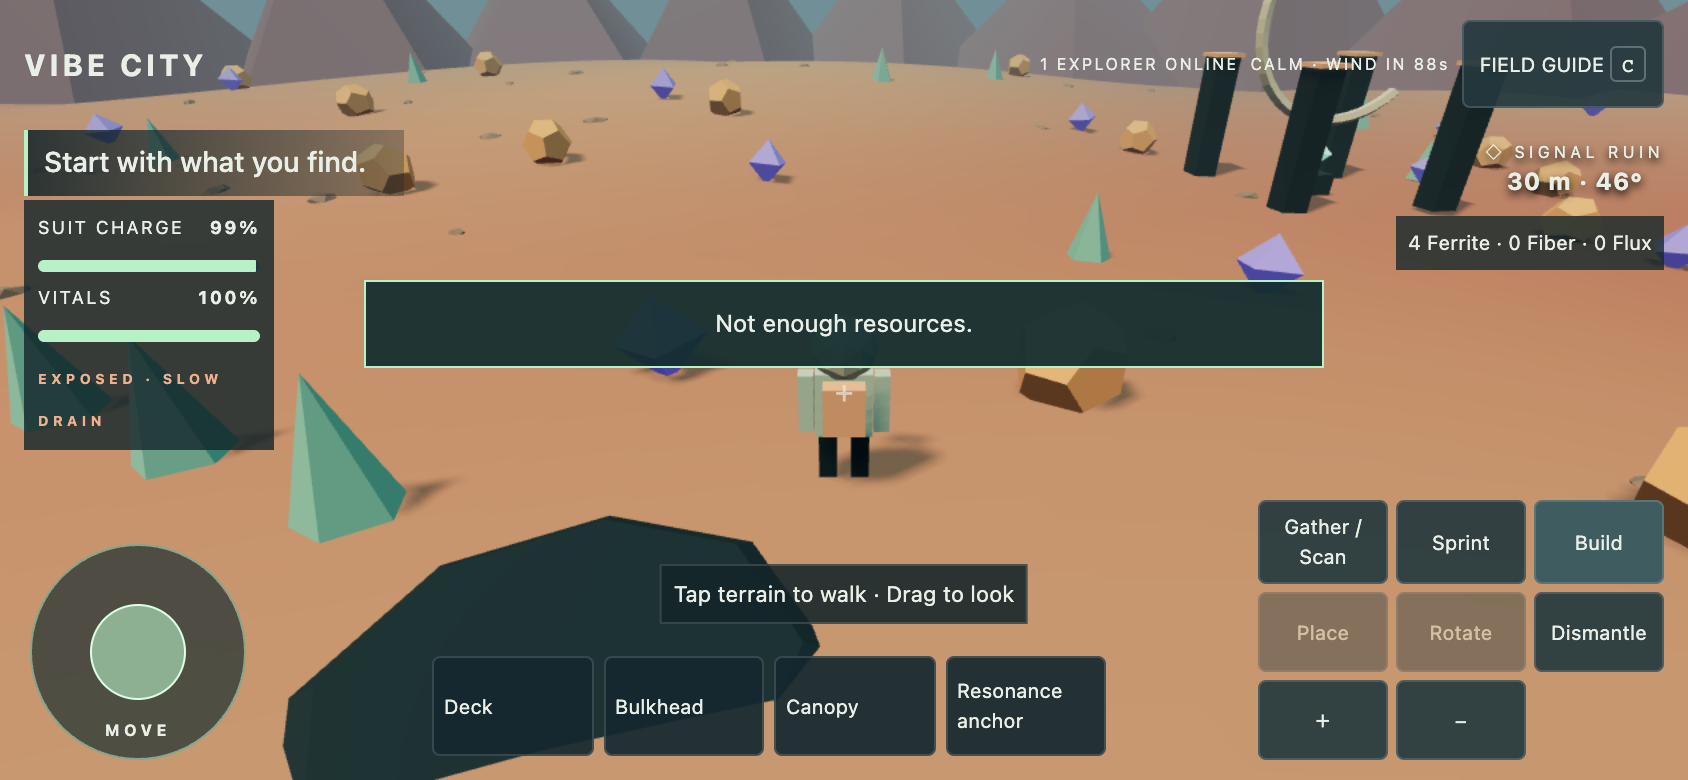
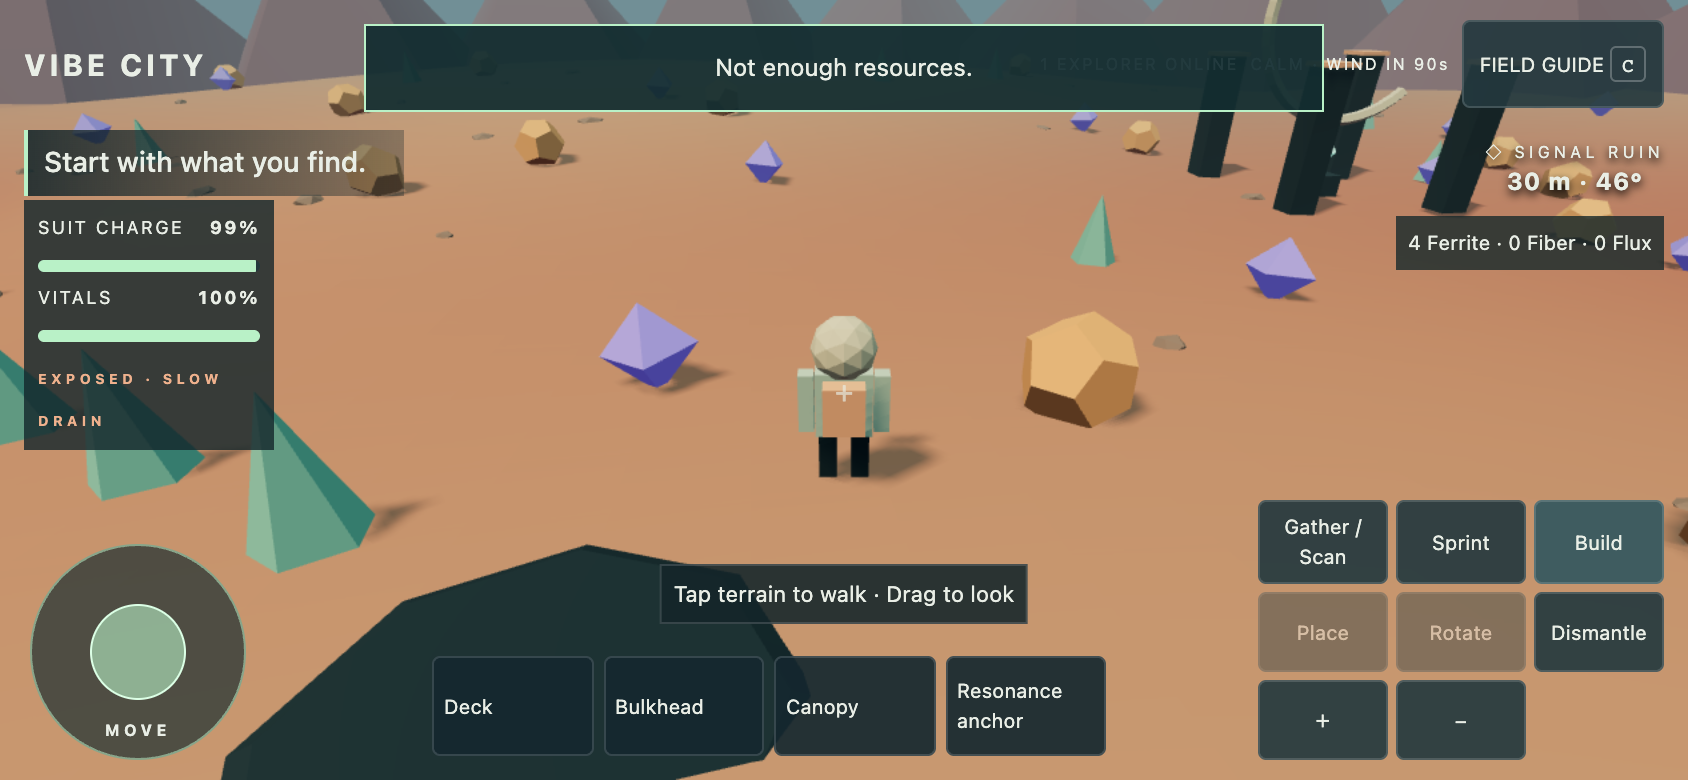
Show movement pad only on touch-capable devices

diff --git a/client/style.css b/client/style.css
@@ -3,3 +3,7 @@
 #world,#stick,#pointerControls button{touch-action:none;user-select:none;-webkit-user-select:none}#pointerControls{position:absolute;bottom:155px;left:28px;right:28px;display:flex;justify-content:space-between;align-items:end;pointer-events:none}#stick{width:112px;height:112px;border-radius:50%;border:1px solid #b9f1c788;background:#10282ca8;position:relative;pointer-events:auto;cursor:grab;display:grid;place-items:center}#stickKnob{display:block;width:48px;height:48px;border-radius:50%;background:#b9f1c799;border:1px solid #dbffe5;pointer-events:none}#stick small{position:absolute;bottom:8px;font-size:8px;pointer-events:none}#actionButtons{display:grid;grid-template-columns:repeat(4,80px);gap:6px;pointer-events:auto}#actionButtons button{min-height:44px;padding:5px;font-size:11px}#sprintAction[aria-pressed=true]{background:#456c5c;border-color:var(--mint)}#interaction{max-width:65vw;white-space:normal;pointer-events:none}#buildHint{bottom:280px;max-width:70vw}#landing{overflow:auto}#guide{touch-action:pan-y}.panel{overscroll-behavior:contain}
 @media(max-width:700px),(pointer:coarse){header{top:max(10px,env(safe-area-inset-top));left:12px;right:12px}.brand b{font-size:15px;letter-spacing:2px}.brand small,.mark{display:none}.topright{gap:6px;font-size:8px;flex-wrap:wrap;justify-content:flex-end}.topright button{min-height:44px;padding:5px 8px;font-size:10px}#mission{top:74px;left:12px;width:200px;padding:8px}#mission small,#mission p,#steps{display:none}#mission h2{font-size:14px;margin:0}#compass{top:81px;left:auto;right:12px;transform:none;font-size:8px}#compass b{font-size:12px}#bottom{bottom:calc(150px + env(safe-area-inset-bottom));left:12px;right:12px;display:block}#vitals{position:fixed;top:112px;left:12px;width:125px;padding:7px}#vitals small{font-size:7px}#stock{position:fixed;top:120px;right:12px;font-size:10px;padding:6px}#saveStatus{display:none!important}#hotbar{justify-content:center;gap:5px}#hotbar button{width:23%;max-width:105px;min-height:50px;padding:5px;font-size:10px}#hotbar b,#hotbar small{display:none}#pointerControls{bottom:calc(18px + env(safe-area-inset-bottom));left:15px;right:12px}#actionButtons{grid-template-columns:repeat(3,65px);gap:4px}#actionButtons button{min-height:40px;font-size:10px}#stick{width:108px;height:108px}footer{display:none}#interaction{bottom:212px;font-size:11px;padding:6px;width:max-content;max-width:90vw}#buildHint{bottom:212px;width:90vw;max-width:90vw;font-size:10px;padding:6px}#toast{top:max(12px,env(safe-area-inset-top));width:85vw;font-size:12px}#reticle{font-size:15px}.veil{padding:20px}.landing-card{width:100%;max-width:430px;margin:auto}.landing-info{display:none}h1{font-size:65px}.panel{max-height:94dvh;padding:16px}.columns{grid-template-columns:1fr;gap:16px}.panel-head h2{font-size:20px}.panel-head button{min-height:44px}input,select{font-size:16px;min-height:44px}.recipe button{min-height:44px}.note{font-size:11px}}
 @media(pointer:coarse) and (orientation:landscape){#mission{top:65px;width:190px}#vitals{top:100px}#compass{top:70px}#stock{top:108px}#hotbar{max-width:350px;margin:auto}#bottom{bottom:12px;left:150px;right:225px}#hotbar button{min-width:55px}#interaction,#buildHint{bottom:78px;max-width:45vw}#pointerControls{bottom:10px}.landing-card{max-width:600px}#landing h1{font-size:42px;margin:8px 0}#landing .intro,#landing .eyebrow{display:none}#joinForm{display:grid;grid-template-columns:1fr 1fr;gap:5px 15px}#joinForm label{grid-row:1}#joinForm input,#joinForm select{grid-row:2}#enter{grid-column:1/3}.note{margin-top:7px}}
+
+/* Show the virtual movement pad only on devices reporting touch support. */
+html:not(.touch-enabled) #stick{display:none}
+#actionButtons{margin-left:auto}

diff --git a/tests/online-smoke.js b/tests/online-smoke.js
@@ -1,4 +1,4 @@
 import {chromium} from 'playwright';import assert from 'node:assert/strict';import fs from 'node:fs';
 const base=process.env.GAME_URL||'https://vibe-city.net';const browser=await chromium.launch({headless:true,executablePath:'/Applications/Google Chrome.app/Contents/MacOS/Google Chrome'});const errors=[];
 try{const a=await browser.newPage({viewport:{width:1280,height:800}}),b=await browser.newPage({viewport:{width:390,height:844},hasTouch:true,isMobile:true});for(const [i,p] of [a,b].entries()){p.on('pageerror',e=>errors.push(e.message));await p.goto(base);await p.locator('#name').fill(`Verification ${i+1}`);await p.locator('#enter').click();await p.waitForFunction(()=>window.vibeDiagnostics.connected,{},{timeout:30000});}
-await a.waitForFunction(()=>window.vibeDiagnostics.avatars>=2);const id=await a.evaluate(()=>window.vibeDiagnostics.id);const start=await a.evaluate(()=>window.vibeDiagnostics.player);const stick=await a.locator('#stick').boundingBox();await a.mouse.move(stick.x+stick.width/2+35,stick.y+stick.height/2);await a.mouse.down();await a.waitForTimeout(1300);await a.mouse.up();await b.waitForFunction(({id,x})=>window.vibeDiagnostics.state.players.some(p=>p.id===id&&p.x>x+1),{id,x:start.x},{timeout:15000});await a.waitForTimeout(500);const saved=await a.evaluate(()=>window.vibeDiagnostics.player);await a.reload();await a.waitForTimeout(2000);await a.locator('#enter').click();await a.waitForFunction(()=>window.vibeDiagnostics.connected,{},{timeout:30000});const resumed=await a.evaluate(()=>window.vibeDiagnostics.player);assert.ok(Math.abs(resumed.x-saved.x)<1);assert.equal(resumed.id,id);assert.deepEqual(errors,[]);await a.screenshot({path:'docs/screenshots/live-desktop.png'});await b.screenshot({path:'docs/screenshots/live-phone.png'});fs.writeFileSync('docs/live-verification.json',JSON.stringify({at:new Date().toISOString(),url:base,passed:true,checks:['HTTPS website renders','two real deployed WebSocket clients','remote avatars','mouse-only movement synchronized to phone-sized client','reload restores identity and position'],pageErrors:errors,physicalPhoneTested:false},null,2));console.log('LIVE PASS: two browsers, multiplayer movement, saved reconnect, zero page errors.');}finally{await browser.close();}
+await a.waitForFunction(()=>window.vibeDiagnostics.avatars>=2);const id=await a.evaluate(()=>window.vibeDiagnostics.id);const start=await a.evaluate(()=>window.vibeDiagnostics.player);await a.locator('#world').click({position:{x:900,y:550}});await a.waitForTimeout(1300);await b.waitForFunction(({id,x})=>window.vibeDiagnostics.state.players.some(p=>p.id===id&&p.x>x+1),{id,x:start.x},{timeout:15000});await a.waitForTimeout(500);const saved=await a.evaluate(()=>window.vibeDiagnostics.player);await a.reload();await a.waitForTimeout(2000);await a.locator('#enter').click();await a.waitForFunction(()=>window.vibeDiagnostics.connected,{},{timeout:30000});const resumed=await a.evaluate(()=>window.vibeDiagnostics.player);assert.ok(Math.abs(resumed.x-saved.x)<1);assert.equal(resumed.id,id);assert.deepEqual(errors,[]);await a.screenshot({path:'docs/screenshots/live-desktop.png'});await b.screenshot({path:'docs/screenshots/live-phone.png'});fs.writeFileSync('docs/live-verification.json',JSON.stringify({at:new Date().toISOString(),url:base,passed:true,checks:['HTTPS website renders','two real deployed WebSocket clients','remote avatars','mouse-only movement synchronized to phone-sized client','reload restores identity and position'],pageErrors:errors,physicalPhoneTested:false},null,2));console.log('LIVE PASS: two browsers, multiplayer movement, saved reconnect, zero page errors.');}finally{await browser.close();}

diff --git a/tests/pointer-browser.js b/tests/pointer-browser.js
@@ -13,6 +13,6 @@ await touch('touchStart',[[1,cx,cy-32]]);await touch('touchStart',[[1,cx,cy-32],
 for(const sel of ['#stick','#gatherAction','#buildAction','#menuButton']){const b=await p.locator(sel).boundingBox();assert.ok(b.x>=0&&b.y>=0&&b.x+b.width<=391&&b.y+b.height<=845,sel);}
 await p.screenshot({path:'docs/screenshots/phone-portrait.png'});await p.setViewportSize({width:844,height:390});await p.waitForTimeout(250);await p.screenshot({path:'docs/screenshots/phone-landscape.png'});
 // Mouse-only movement pad.
-const desktop=await browser.newPage({viewport:{width:1280,height:800}});await desktop.goto(`http://localhost:${app.server.address().port}`);await desktop.locator('#enter').click();await desktop.waitForFunction(()=>window.vibeDiagnostics.connected);const s=await desktop.locator('#stick').boundingBox();await desktop.mouse.move(s.x+s.width/2,s.y+10);await desktop.mouse.down();await desktop.waitForTimeout(500);await desktop.mouse.up();assert.ok((await desktop.evaluate(()=>window.vibeDiagnostics.player.z))<2);assert.deepEqual(errors,[]);
+const desktop=await browser.newPage({viewport:{width:1280,height:800}});await desktop.goto(`http://localhost:${app.server.address().port}`);await desktop.locator('#enter').click();await desktop.waitForFunction(()=>window.vibeDiagnostics.connected);assert.equal(await desktop.locator('#stick').isVisible(),false);await desktop.locator('#world').click({position:{x:900,y:550}});await desktop.waitForTimeout(700);const moved=await desktop.evaluate(()=>window.vibeDiagnostics.player);assert.ok(Math.hypot(moved.x,moved.z-3)>.3);assert.deepEqual(errors,[]);
 fs.writeFileSync('docs/pointer-test-report.json',JSON.stringify({at:new Date().toISOString(),passed:true,checks:['touch movement','hold to gather','tap fabrication menu','construction buttons and invalid placement','simultaneous move/look','touch cancellation stops movement','portrait controls in viewport','mouse-only movement'],physicalPhoneTested:false},null,2));console.log('Touch, multi-touch, phone layout and mouse-only checks passed');
 }finally{await browser.close();await app.close();fs.rmSync(dir,{recursive:true});}

diff --git a/client/controls.js b/client/controls.js
@@ -1,5 +1,6 @@
 // Pointer Events support mouse, pen and simultaneous touch contacts without mouse capture.
 export function bindControls({canvas,orbit,groundClick,interact,build,rotate,place,dismantle,zoom}) {
+ document.documentElement.classList.toggle('touch-enabled',navigator.maxTouchPoints>0);
  const input={x:0,z:0,gather:false,sprint:false};
  const stick=document.getElementById('stick'),knob=document.getElementById('stickKnob');let stickId=null,look=null;
  function reset(){input.x=input.z=0;input.gather=false;stickId=null;look=null;knob.style.transform='translate(0,0)';}

diff --git a/README.md b/README.md
@@ -103,4 +103,4 @@ The free storage plan has usage limits; it is suitable for an initial playtest, 
 
 ### Mouse and touch controls
 
-No keyboard is required. Click/tap terrain to walk toward it; drag the world to orbit. Drag the movement pad for precise steering. Use Gather/Scan (hold to repeat), Sprint, Build, Place, Rotate, Dismantle, and +/− buttons. Open Field Guide for crafting. The hotbar selects construction pieces. Click-to-walk follows a straight line and stops at obstacles; use the pad to steer around them.
+No keyboard is required. Click/tap terrain to walk toward it; drag the world to orbit. On touch-capable devices, drag the movement pad for precise steering. The pad is hidden on non-touch computers. Use Gather/Scan (hold to repeat), Sprint, Build, Place, Rotate, Dismantle, and +/− buttons. Open Field Guide for crafting. The hotbar selects construction pieces. Click-to-walk follows a straight line and stops at obstacles; use the pad to steer around them.
